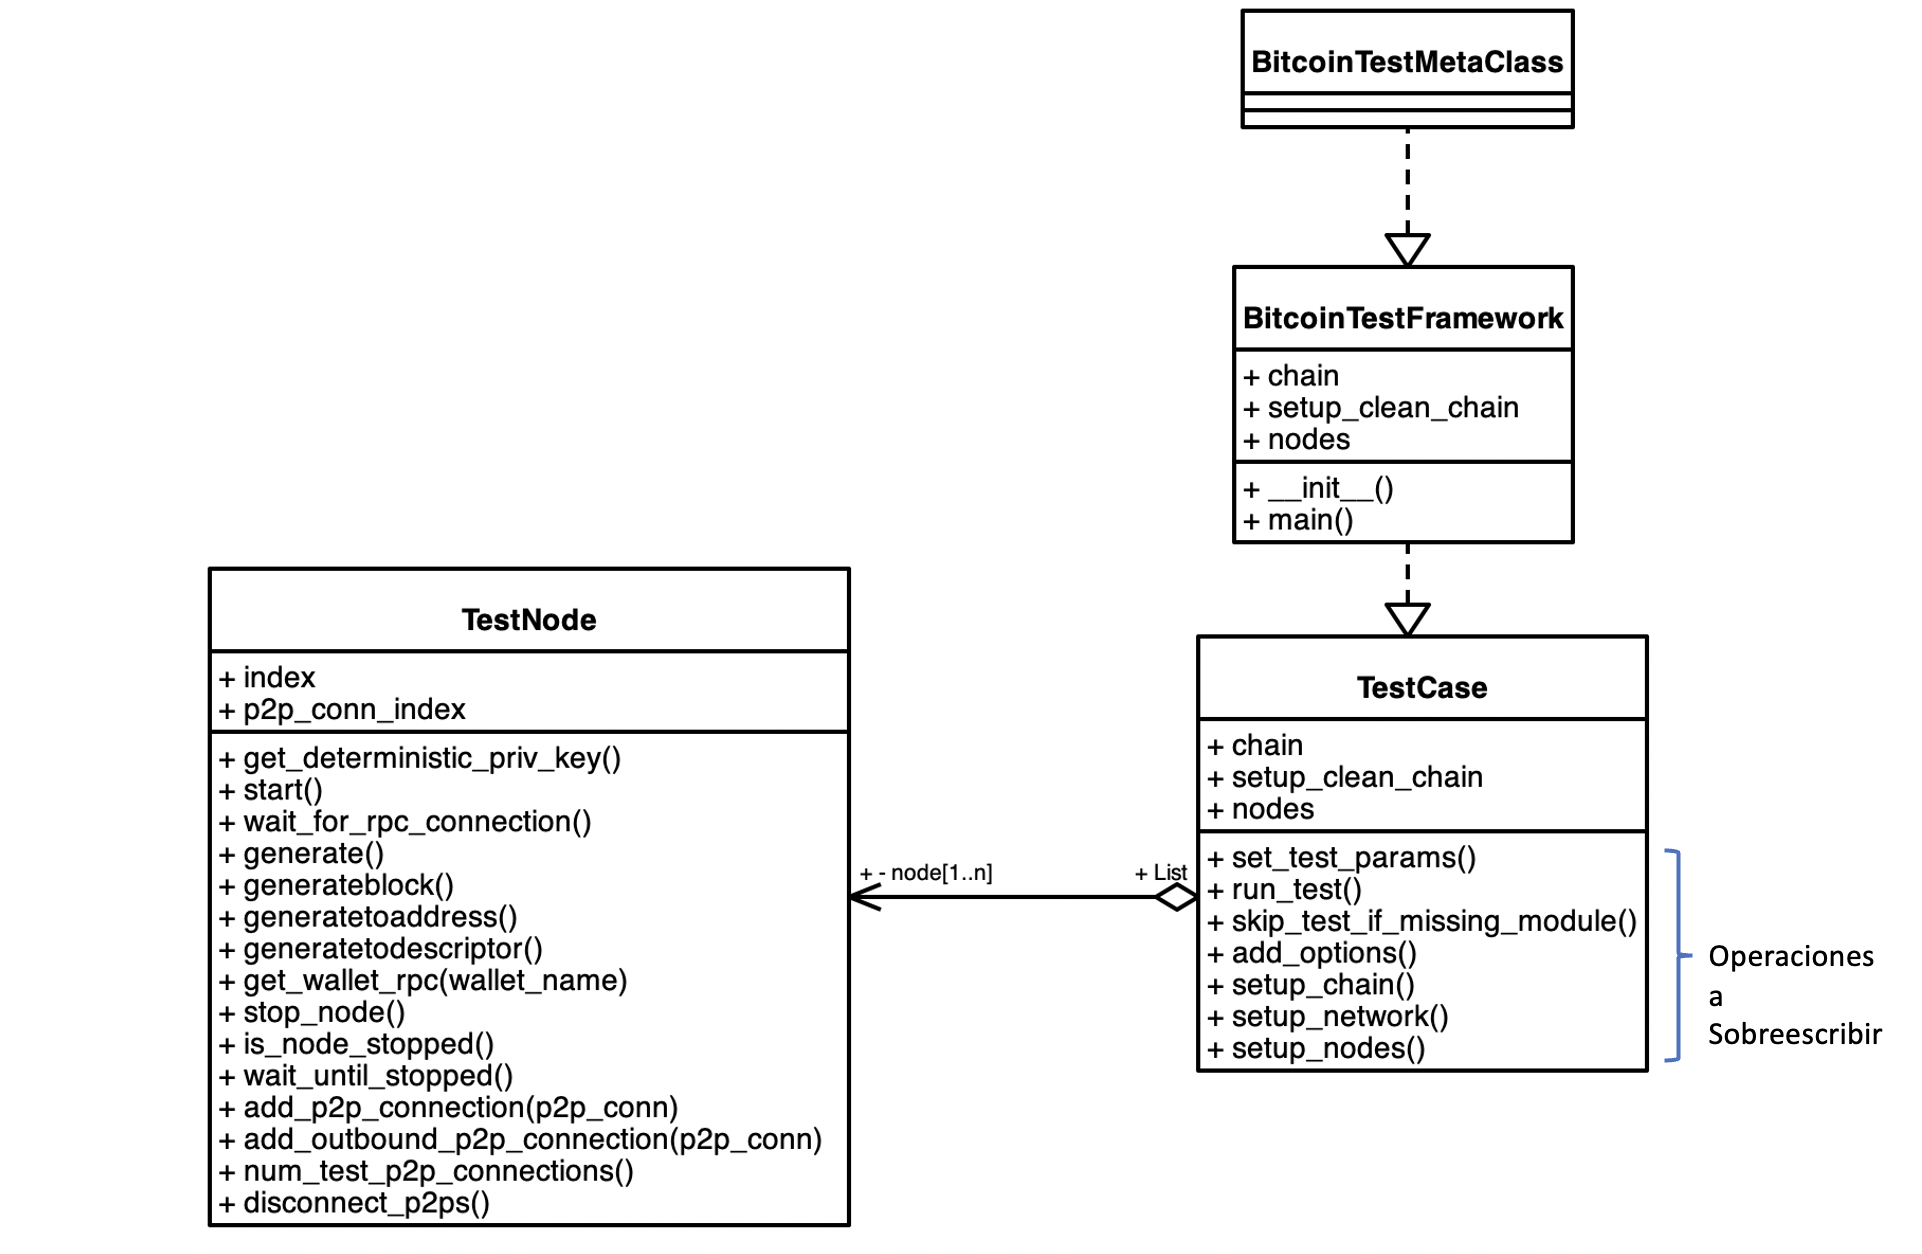
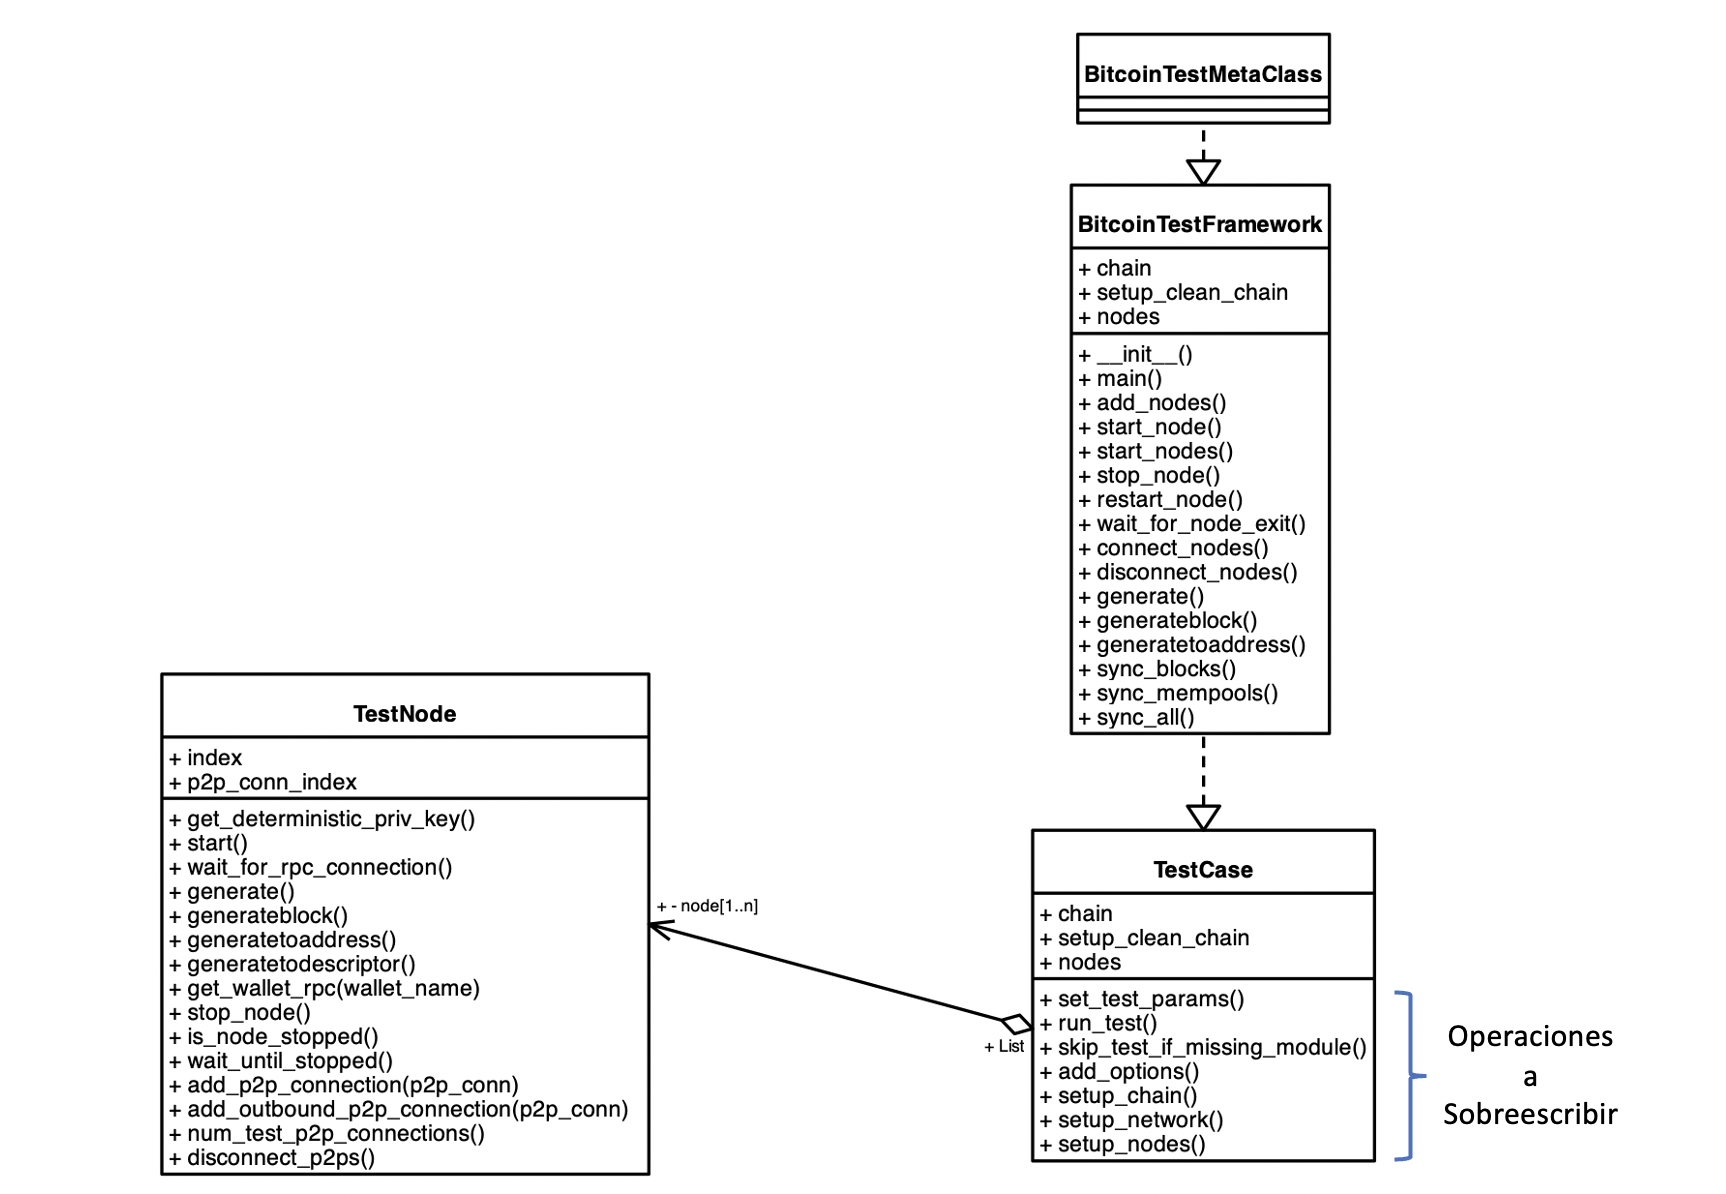
intro

diff --git a/test_framework/test_framework_notas.md b/test_framework/test_framework_notas.md
@@ -2,6 +2,33 @@
 
 Introducción al Framework de pruebas funcionales de Bitcoin
 
-Los componentes principales del framework se detallane en el siguiente diagrama de clases.
+El framework se compone de una serie de clases y funciones de ayuda (Helper Functions). En estas notas presentaremos las clases con sus atributos y funciones priicipales, para una referencia completa es importante revisar el código que se encuentra en el directorio __bitcoin/test/functionaltest_framework__ del [código fuente de _Bitcoin core_](https://github.com/bitcoin/bitcoin/tree/master/test/functional). 
+
+A continuación se presentan las clases principales, toda prueba debe ser una clase que hereda de la clase _BitcoinTestFramework_, en el ejemplo esta clase es _TestCase_.  Esta nueva clase _TestCase_ debe sobreescribir las member functions **set_test_params** y **run_test**. Del mismo modo, se pueden sobreescribir las funciones que se listan en la sección **Operaciones a sobreescribir**.  Esta es la clase prinicpal que controla la prueba y tiene 3 parámetros principales: 
+
+* _chain_ que por default esta configurada para _'regtest'_ 
+* _setup_clean_chain_ que se usa para definir una cadena de bloques iniciando desde el _Genesis block_ si se configura como 'true', de lo contrario si la configuramos como 'false' el framework cargará 200 bloques de una cadena preminada desde el disco cuyas recompensas de minado se distribuyen entre 4 nodos. Cada nodo tiene 25 bloques con subsidio maduros (mas de 100 confirmaciones) igual a 25 x 50 = 1,250 bitcoins en su billetera.
+* _nodes_ que determina el número de nodos a instanciar para la prueba
+
 
 ![Example image](img/test-framework-main-classes.png)
+
+Típicamente estos parámetros se configuran en la función __set_test_params__
+
+Ejemplo:
+``` python
+def set_test_params(self):
+        """Override test parameters for your individual test.
+        This method must be overridden and num_nodes must be explicitly set."""
+        # Si inicias con una blockchain nueva ninguno de los nodos tendrá 
+        # bitcoin. 
+        self.setup_clean_chain = True
+
+        # Vamos a configurar 3 nodos conectados por default
+        self.num_nodes = 3
+
+        # Usa self.extra_args para cambiar los argumentos de línea de comado para
+        # cada nodo por posición, para ver los argumentos puedes revisar el archivo
+        # [src/init.cpp]
+        self.extra_args = [[], ["-logips"], []]
+```
